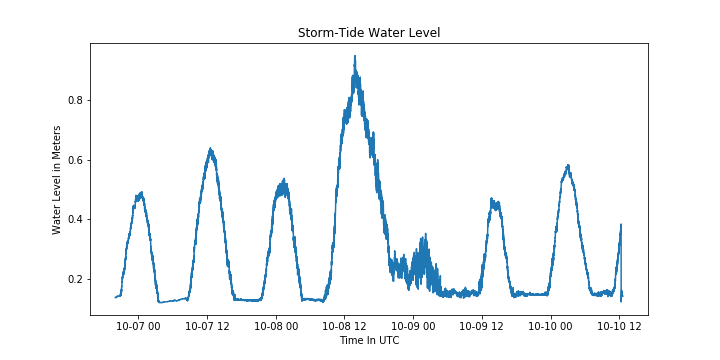
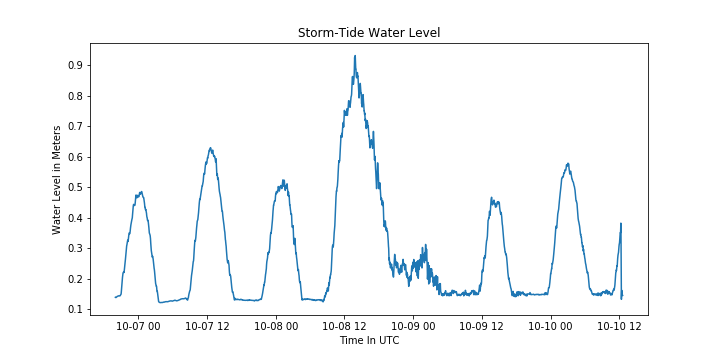
Update Notebooks

diff --git a/wavelab/processing/pressure_to_depth.py b/wavelab/processing/pressure_to_depth.py
@@ -208,26 +208,7 @@ def eta_to_pressure(a, omega, k, z, H, t):
 
 
 def butterworth_filter(data, fs):
-    """Performs a rolling average with a 6 min cutoff."""
-    if fs >= 1 / 180.:
-
-        cutoff = 0.002777777777775
-
-        lowcut = cutoff / (.5 * fs)
-
-        b, a = signal.butter(4, [lowcut], btype='lowpass')
-
-        filtered_data = signal.filtfilt(b, a, data)
-
-        return filtered_data
-
-    else:
-        return data
-
-
-def butterworth_filter(data, fs):
-    """Performs a rolling average with a 6 min cutoff."""
-
+    """Performs a 4th order butterworth filter with a 6 min cutoff."""
     if fs >= 1 / 180.:
 
         cutoff = 0.002777777777775

diff --git a/documentation/notebooks/storm-tide.md b/documentation/notebooks/storm-tide.md
@@ -1,4 +1,4 @@
-<img src="./images/usgs.png" style=" padding-top: 26px; float: left"/>
+<img src="./images/usgs.png" style="padding-top: 26px; float: left"/>
 <img src="./images/WaveLabLogo.png" style="float: left"/>
 
 # Storm-Tide Water Level
@@ -85,16 +85,17 @@ USGS defines Storm-Tide as low-pass filtered signal including frequencies of bot
 
 Other things to consider are:
 
--	A one-minute cutoff was used in the low-pass filter, this ensured that by 30 seconds (the beginning of wind-wave frequencies), the signal was fully attenuated.
+-	A six-minute cutoff was used in the low-pass filter.
 -	The signal was filtered twice to preserve the phase angles (original position) of the water level time series.
 -	Although adequate for data with a wide range of sampling frequencies, this filter was optimized for 4hz data (adjustments were made to prepare for edge cases of 1 minute or more sampled data.)
 
 ### Calculating Storm-Tide
 
+
 ```python
 from wavelab.processing.pressure_to_depth import butterworth_filter
 
-storm_tide_water_level = butterworth_filter(unfiltered_water_level, 4)  # frequency in hz
+storm_tide_water_level = butterworth_filter(unfiltered_water_level, 4) #frequency in hz
 ```
 
 This is the longer hand version of the above:
@@ -104,7 +105,7 @@ This is the longer hand version of the above:
 from scipy import signal
 
 # One minute cutoff divided by the Nyquist Frequency of 4hz
-lowcut = .016666666665 / (.5 * 4)
+lowcut = 0.002777777777775 / (.5 * 4)
 
 # 4th order butterworth filter
 b, a = signal.butter(4, [lowcut], btype='lowpass')

diff --git a/documentation/notebooks/wave-stats.md b/documentation/notebooks/wave-stats.md
@@ -270,8 +270,3 @@ Smith J. M. (2002). "Wave Pressure Gauge Analysis with Current". Journal of Wate
         
 Vrabel, J. and S. Rendon. (2013). Storm Surge, Unpublished Software Routine. United States <br />
 &nbsp;&nbsp;Geological Survey, personal communication.
-
-
-```python
-
-```
